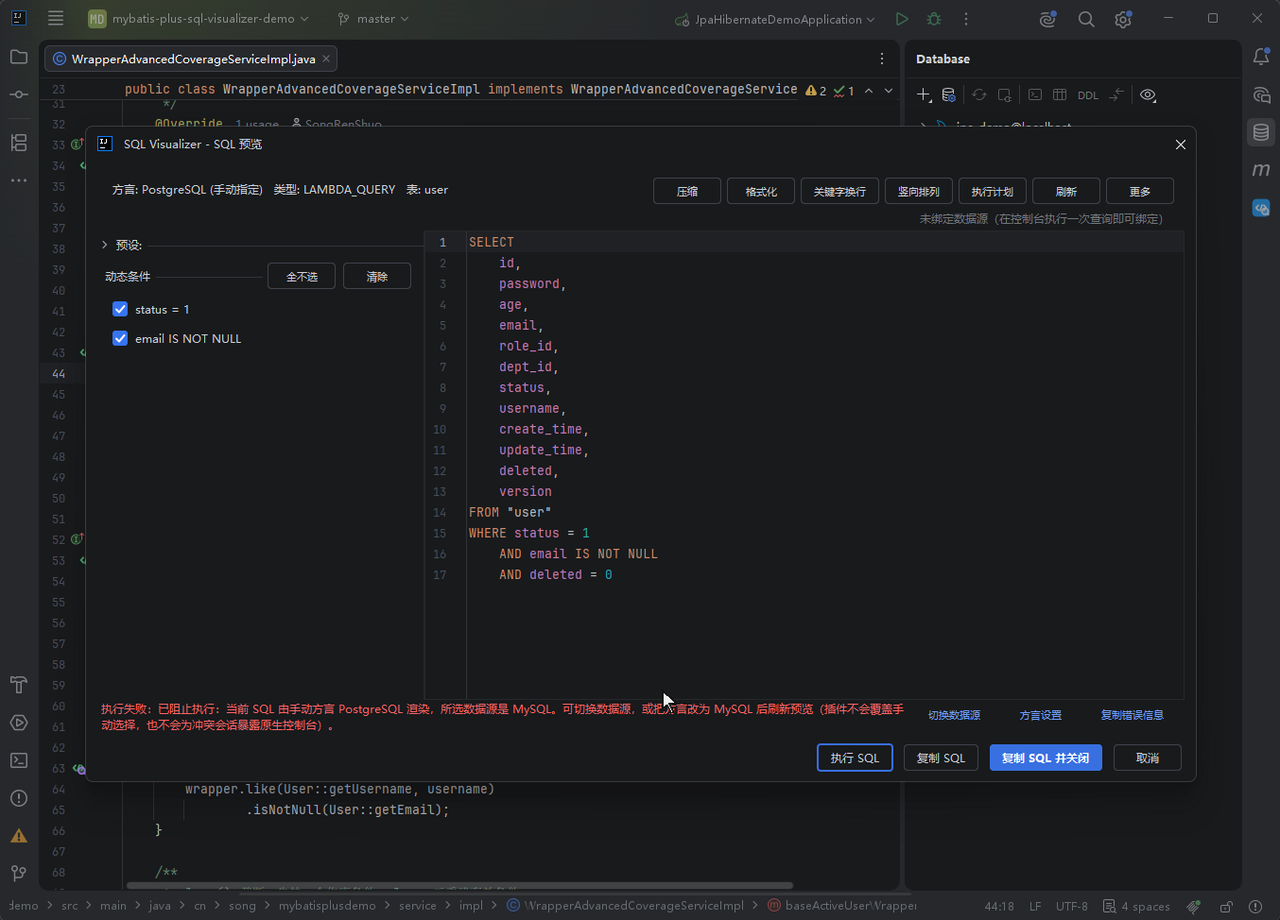
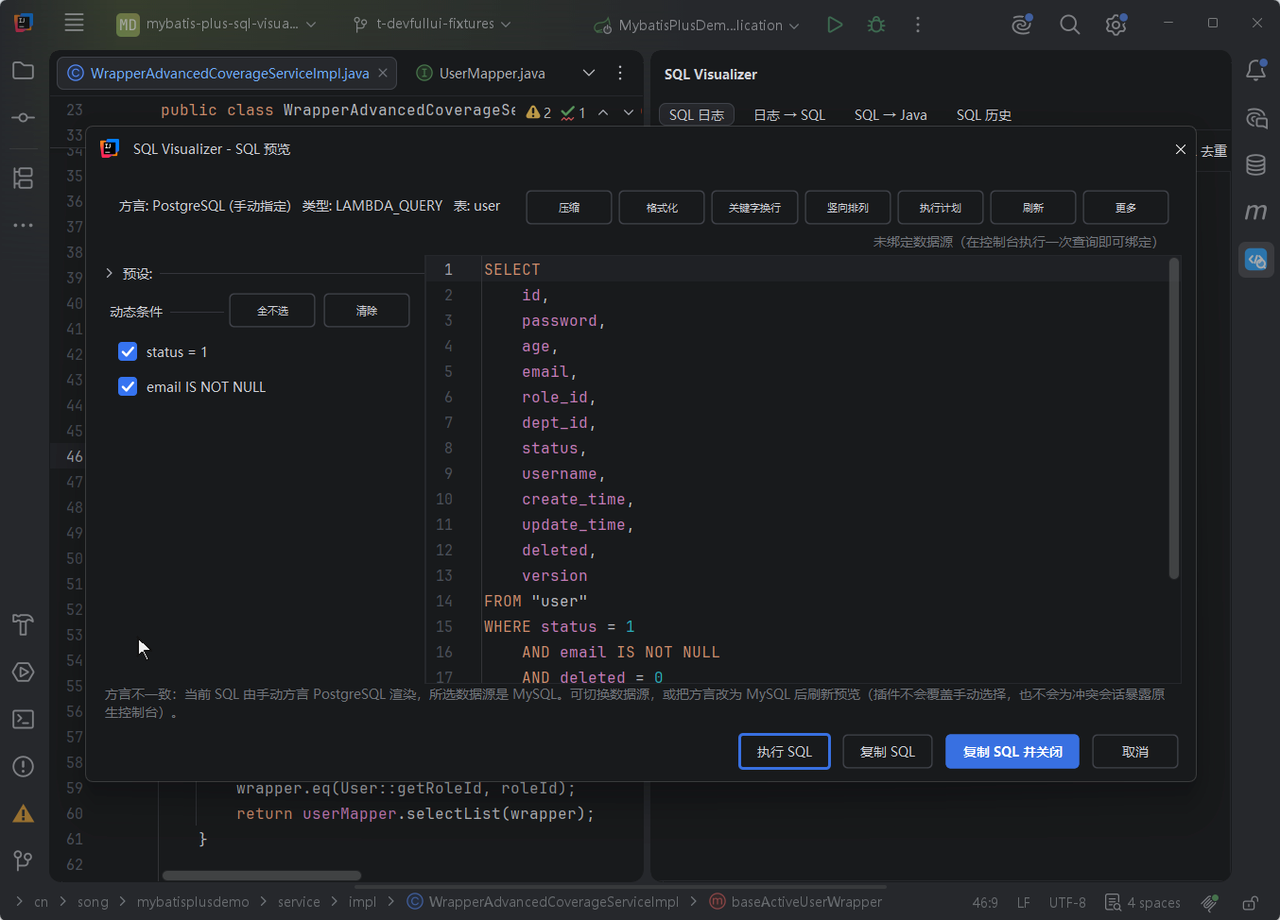
feat(demo): 第十五轮补录——dialect-gate 按放行形态重录 + 新增 mapper-nav-jump
R1 dialect-gate 重录（6.9s / 0.7MB）：预览按手动方言 PostgreSQL 渲染
（FROM "user"）→ 点「执行 SQL」弹数据源选择器（6 个 MySQL 源）→ 选
mp_demo@localhost → 灰色信息行「方言不一致：…」，执行不阻断。画面
不再是 10.28 前的「已阻止执行」阻断形态。

N1 新增 mapper-nav-jump（8.1s / 0.44MB，接缝 0.03）：UserMapper.xml
第 25 行语句 ↔ UserMapper.java 第 114 行方法双向跳转，插入 xml-preview
中英「Mapper 双向跳转」节。

文案纠错：wrapper-preview 中英「结果行同时提供 切换数据源/方言设置/
复制错误信息」与现行实现不符——放行态只有一条灰色信息行（showStatus
会清掉动作按钮），带按钮的只出现在自动重渲染失败分支；已如实改写，
dialect-gate 的 alt 同步重写。

N2 未录：`#`→`{}` 自动补、`#{` 属性补全、标签属性补全、动态标签折叠
四项在 2026.2 沙盒均未复现（ParamBraceTypedHandler 已注册、开关默认开），
按红线不摆拍，登记待回插件仓核实。N3~N5 未启动。

验证：build 退出码 0；引用 66/素材 65 零缺失零孤立；本地 preview 两页
与三份素材均 200。只提交未部署，待用户目视确认。

diff --git a/docs/变更记录.md b/docs/变更记录.md
@@ -12,7 +12,8 @@ search: false
 
 | 日期 | 变更 |
 |------|------|
-| 2026-10-30 | **第十五轮插件功能同步——v2026.10.30 发行升档（已部署并验证）**：插件 v2026.10.30 已发行（tag `2026.10.30` / gradle.properties 与 update.json 同值 / Gitee id 1254098，四证核对），站点基线停在 v2026.10.23（20261021 计划），本轮补齐 10.26~10.30 用户可见增量与两处前轮漏项。①`features/xml-preview` 中英**新两节**：「Mapper 双向跳转」（10.28：XML 语句行 ↔ 接口方法行 gutter 互跳、namespace+id 解析；10.30 同类导航插件共存让位 + 设置项「与同类 MyBatis 导航插件共存时让出 Mapper 跳转图标」默认开，bundle `settings.mapperNavYield` 亲证）与「mapper XML 编辑辅助」（10.13 T-XmlSynHi/XmlGap：语法着色、`#{}`/`${}` 分色、补全面、引用导航、动态标签折叠、注入区间级让位——此前仅 roadmap 有登记行、功能页零覆盖）；②`features/sql-log` 中英六处：DDL 两档类型着色与筛选（CREATE/ALTER/RENAME 与 DROP/TRUNCATE，虚线 vs 实心）、调用栈定时任务线程帧与线程名标注、暂停态视口锚定、关键字换行取完整 SQL、**增强捕获采集零替换**（连接原样保留只登记 URL、`-Dsqlvis.agent.wrapConnection=true` 显式 opt-in、GBASE 8s / 部分 SQLite·HSQLDB 织入名单边界如实写）、元信息行固定顺序与完整文件名；③`features/wrapper-preview` 中英：**「方言与数据源不匹配」GIF alt 从「已阻止执行」改写为放行口径**（正文 4f32f70 已是放行、alt 停在 745fd58 按 10.28 前行为的阻断重录——同文件内自相矛盾，本轮对齐）+ 判定证据透明句 + 执行控制台按绑定身份复用（T-ConsoleBind）+ 参数预设永久绑定方法；④`features/mcp` 中英：禁用工具直接调用门（`TOOL_DISABLED`）与 IDEA 2026.1.x 兼容修复（T-Mcp261FilterContract）进「使用前提」；⑤`guide/configuration` 中英五处：方言智能推断 details 按 10.29 重写（只认 SQL 数据源 / 按模块收窄 / 排除测试资源 / 激活 profile / 兜底不硬编码 MySQL）、共存让位设置段、CRUD 颜色标记行补 DDL、MCP 直接调用门、更新失败三态诊断；⑥`guide/faq` 中英方言答案同款旧兜底口径修掉（实施中全站 grep 抓出的计划外项）；⑦jpa-preview 嵌入列命名宿主级联（10.26 T-EmbeddedIdentify）、shortcuts 中英补双向跳转入口行；⑧roadmap 中英已完成 41→45 / 37→39 项、底注升档 `v2026.9.8 ~ v2026.10.30` 并补 10.26/28/29/30 四段代表功能。红线自查：全部新增表述逐条回对插件 master CHANGELOG 10.23~10.30 段与源码（`MyBatisCompetitorGate` / `MapperNavigationLineMarkerProviders` / `LogStatementClassifier` / `XmlSqlCompletionContributor` 亲证）。验证：check-en-parity 一致；build 退出码 0（faq 补修后重建）；dist grep zh 25 + en 17 组新读数全中、旧口径零残留、双锚点在产物；生产 curl 9 页 200 + pagefind 200。**遗留登记**：`dialect-gate.gif` 画面仍为 10.28 前阻断形态，文字与 alt 已对齐放行，重录进演示资产待办（需沙盒 + 键鼠独占，本轮未录）。计划：docs/开发计划/20261030-1100-第十五轮插件功能同步v2026.10.30发行升档-开发计划.md |
+| 2026-10-31 | **第十五轮同步演示动图补录（只提交未部署）**：①**R1 `dialect-gate.gif` 重录**——画面从 10.28 前的「已阻止执行」阻断形态换成放行形态：预览按手动方言 PostgreSQL 渲染（`FROM "user"`）→ 点「执行 SQL」弹数据源选择器（6 个 MySQL 源）→ 选 `mp_demo@localhost` → 灰色信息行「方言不一致：…」，执行不阻断（1280×920 / 6.9s / 0.7MB）。录制中定案的机制：平台 runner 枚举按 exec 文件方言过滤，PG 源在位时 `runners=1` 永不弹选择器，须临时移出两个远端 PG 源才得 `runners=6`；`FROM "user"` 要跑通必须落到有全字段的 `mp_demo`（`mpj_demo.user` 只有五列）且数据源 URL 带 `ANSI_QUOTES`；放行态信息行会被真实报错覆盖，故必须让执行成功。②**N1 新增 `mapper-nav-jump.gif`**——`UserMapper.xml` 第 25 行语句 ↔ `UserMapper.java` 第 114 行方法双向跳转（8.1s / 0.44MB / 接缝 0.03），插进 `features/xml-preview` 中英「Mapper 双向跳转」节。③**文案纠错**：`features/wrapper-preview` 中英「结果行同时提供：切换数据源 / 方言设置 / 复制错误信息」与现行实现不符——放行态只有一条灰色信息行（`showStatus` 会清掉动作按钮），带按钮的只出现在「自动重渲染失败」分支；已如实改写，`dialect-gate.gif` 的 alt 同步重写。④**N2 未录**：`#`→`{}` 自动补、`#{` 属性补全、标签属性补全、动态标签折叠四项在 2026.2 沙盒全部未复现（`ParamBraceTypedHandler` 已注册、开关默认开，怀疑 243+ 注入片段击键路由吞掉），按红线不摆拍，登记待回插件仓核实；N3~N5（P2/P3 可裁）未启动。验证：`npm run build` 退出码 0、引用 66/素材 65 零缺失零孤立、本地 preview 两页与三份素材均 200；动画确认待用户目视。计划：docs/开发计划/20261030-1545-第十五轮同步演示动图补录计划-开发计划.md；验收：docs/验收文档/20261031-第十五轮同步演示动图补录-验收文档.md |
+| 2026-10-30 | **第十五轮插件功能同步——v2026.10.30 发行升档（已部署并验证）**：插件 v2026.10.30 已发行（tag `2026.10.30` / gradle.properties 与 update.json 同值 / Gitee id 1254098，四证核对），站点基线停在 v2026.10.23（20261021 计划），本轮补齐 10.26~10.30 用户可见增量与两处前轮漏项。①`features/xml-preview` 中英**新两节**：「Mapper 双向跳转」（10.28：XML 语句行 ↔ 接口方法行 gutter 互跳、namespace+id 解析；10.30 同类导航插件共存让位 + 设置项「与同类 MyBatis 导航插件共存时让出 Mapper 跳转图标」默认开，bundle `settings.mapperNavYield` 亲证）与「mapper XML 编辑辅助」（10.13 T-XmlSynHi/XmlGap：语法着色、`#{}`/`${}` 分色、补全面、引用导航、动态标签折叠、注入区间级让位——此前仅 roadmap 有登记行、功能页零覆盖）；②`features/sql-log` 中英六处：DDL 两档类型着色与筛选（CREATE/ALTER/RENAME 与 DROP/TRUNCATE，虚线 vs 实心）、调用栈定时任务线程帧与线程名标注、暂停态视口锚定、关键字换行取完整 SQL、**增强捕获采集零替换**（连接原样保留只登记 URL、`-Dsqlvis.agent.wrapConnection=true` 显式 opt-in、GBASE 8s / 部分 SQLite·HSQLDB 织入名单边界如实写）、元信息行固定顺序与完整文件名；③`features/wrapper-preview` 中英：**「方言与数据源不匹配」GIF alt 从「已阻止执行」改写为放行口径**（正文 4f32f70 已是放行、alt 停在 745fd58 按 10.28 前行为的阻断重录——同文件内自相矛盾，本轮对齐）+ 判定证据透明句 + 执行控制台按绑定身份复用（T-ConsoleBind）+ 参数预设永久绑定方法；④`features/mcp` 中英：禁用工具直接调用门（`TOOL_DISABLED`）与 IDEA 2026.1.x 兼容修复（T-Mcp261FilterContract）进「使用前提」；⑤`guide/configuration` 中英五处：方言智能推断 details 按 10.29 重写（只认 SQL 数据源 / 按模块收窄 / 排除测试资源 / 激活 profile / 兜底不硬编码 MySQL）、共存让位设置段、CRUD 颜色标记行补 DDL、MCP 直接调用门、更新失败三态诊断；⑥`guide/faq` 中英方言答案同款旧兜底口径修掉（实施中全站 grep 抓出的计划外项）；⑦jpa-preview 嵌入列命名宿主级联（10.26 T-EmbeddedIdentify）、shortcuts 中英补双向跳转入口行；⑧roadmap 中英已完成 41→45 / 37→39 项、底注升档 `v2026.9.8 ~ v2026.10.30` 并补 10.26/28/29/30 四段代表功能。红线自查：全部新增表述逐条回对插件 master CHANGELOG 10.23~10.30 段与源码（`MyBatisCompetitorGate` / `MapperNavigationLineMarkerProviders` / `LogStatementClassifier` / `XmlSqlCompletionContributor` 亲证）。验证：check-en-parity 一致；build 退出码 0（faq 补修后重建）；dist grep zh 25 + en 17 组新读数全中、旧口径零残留、双锚点在产物；生产 curl 9 页 200 + pagefind 200。**遗留登记**：`dialect-gate.gif` 画面仍为 10.28 前阻断形态，文字与 alt 已对齐放行，重录进演示资产待办（需沙盒 + 键鼠独占，本轮未录；**已于 2026-10-31 重录完成，见上方 10-31 行**）。计划：docs/开发计划/20261030-1100-第十五轮插件功能同步v2026.10.30发行升档-开发计划.md |
 | 2026-10-26 | **全站 64 张演示动图复核 + 文本查漏（未部署）**：用户要求对新一批录制成果做全量复核（动图画面 + 页面文本）。①**方法**——机械指标全量实测（Pillow 逐张读尺寸/帧数/时长/体积 + poster mtime 对账）+ **逐张目视**（6 组并行子代理抽首/15%/40%/65%/尾五帧，主控对关键断言逐条自核）+ 文本对照插件 `CHANGELOG [2026.10.23]` 逐项 grep；判定口径 PASS/MINOR/SERIOUS，含「反向自证」一问。②**读数**——64 张里 **PASS 32 / MINOR 22 / SERIOUS 10**；尺寸异常 2 处（`display-mask` 1088×782 为等比缩小、`sql-snippets` 1280×962 为装菜单抬高窗口），poster 陈旧 4 张（`capture-diagnostics`/`datasource-badge`/`sql-history`/`sql-list-display`，其中 `sql-list-display.png` 停在演示里根本没出现的「格式化」档）→ **已从当前成片重出这 4 张 poster**。③**SERIOUS 10 张**——`wrapper-preview`（拍成 XML mapper 预览，非 Wrapper→SQL；被首页卡/快速开始/DocsShowcase 共 6 处引用）、`wrapper-params`（方向与 alt 相反：全片唯一一次翻转是**勾上** username、WHERE 多一个条件；且参数输入 `'tom'` 渲染成 `'''tom'''`）、`diagnostic-report`（五段式报告本体全程不可见）、`dialect-gate`（场景无方言冲突：PG 渲染→PG 源，证不了「只提示不拦」）、`history-compare`（两条 SQL 结构毫不相关），以及**跳行弹窗 6 张**（`annotation-preview`/`batch-operation`/`xml-preview`/`jpa-embedded`/`jpa-write-path`/`jpa-derived-query`）。④**跳行弹窗根因定案**——跳行由 `lib/nav.py` 的 `goto*` 与 `gifkit.goto_line` 实现（Ctrl+G→清空→输入→Enter），从 Ctrl+G 到 Enter 约 1.5~2.0s、弹窗全程可见（15fps 下 20~30 帧）；上一轮「`goto_col` 末尾按 Esc」的修法**无效**（Esc 在 Enter 之后，弹窗早已入镜）。⑤**与上一轮验收结论冲突（重要）**——`docs/验收文档/20261025-…验收文档.md` 对 `batch-operation`/`jpa-write-path`/`jpa-embedded` 三张写「全程无跳行弹窗」，但**当前提交的文件里弹窗仍在**（逐帧读数：`21:1` / `56:35`→`102` / `23:20`→`26`）；另有两处列数口径不符（写 7 列实测 8 列、写从 `age` 起实测从 `password` 起）→ 判定「上一轮验收描述的画面与当前提交的文件不是同一次 take」。**教训：验收必须对着仓库里已提交的那份文件逐帧看。**⑥**文本修复 14 处（中英同步）**——补 5 项未覆盖能力（执行前自检＝方言能力缺口+未识别列 did-you-mean、方言能力矩阵 meta 悬停、数据源「本模块上次使用」指示行、分享窗口「审阅诊断报告并反馈」、AI 上下文 v2 的版本化诊断投影/已取得计划摘要/表列计数/缺失项标注）；订正 9 处与画面或实现不符（`wrapper-params`/`perf-advice`/`explain-plan` 三处 alt、`explain-history-compare` 正文时序、`history-compare` 标题口径、`capture-diagnostics` alt 引号文案、`jpa-write-path`/`jpa-derived-query`/`xml-ognl` 三处 alt、`sql-suppress`+`history-export` alt 里的制作说明、`guide/shortcuts.md` 交流群「最右」、`about/roadmap.md` 版本区间 `v2026.10.23-beta.1`→`v2026.10.23`）。**已核实不补**：`ExplainIndexAdvisor.ruleInventory()`（R45 体检规则清单）在 `src/main` 零消费点，按「非用户可见能力不写文档」口径不补。⑦**验证**——`node scripts/check-en-parity.mjs` 中英清单一致；`npm run build` 退出码 0。⑧**交付**——复核记录 `docs/验收文档/20261026-演示动图全量复核-验收文档.md`（含 64 张逐张判定表）；重录计划 `docs/开发计划/20261026-0330-演示动图复核问题重录-开发计划.md`（10 张重录清单 + 根因 + 三道新增闸门 + 6 条待验证前提 + 批次编排）。**只提交，不部署。** |
 | 2026-10-21 | **v2026.10.23-beta.1 基线全站盘点 + 增强捕获授权口径就地修正（未部署）**：①**盘点**——52 张 GIF / 63 张 PNG / 73 处引用全量对账（零缺失、零孤立）；像素采样识别出 **9 张 poster 带 `Start Free Trial`**（`sql-to-java`/`mcp-agent`/`code-completion`/`annotation-preview`/`batch-operation`/`jpa-preview`/`xml-preview`/`xml-preview-rollback`/`crud-sql`，含首页在用的 `sql-to-java.png`）；git 日期 + poster 目视确认 13 张为 2026-09-12~09-15 旧 UI 构图（预览面板按钮行无「复制 SQL 并关闭」、日志工具栏为 `AllIcons` 旧图标、`SQL → Java (Beta)` 页签）；27 个新功能关键词普查出 **14 项零命中**；17 个候选提交经 `git merge-base --is-ancestor` 全部确认在 tag `2026.10.23-beta.1` 内。②**正文修正（6 组文件）**——增强捕获授权机制是最大失真项：站点中英仍在写「24 小时冷却 / 重新授权按钮 / 三态确认弹窗 / 未授权状态行」，而 `T-EnhancedCaptureDefaultOn`（`5b4fb4e0`）早已改为默认开启、勾选即授权、无确认框。已改 `features/sql-log.md`（导语 + 启动注入 details + 诊断表三行换为「双通道状态栏 / 设置页状态行」）、`en/features/sql-log.md`（同三处）、`guide/configuration.md` 与 `en/`（设置表增强捕获行）、`guide/faq.md` 与 `en/`（捕获不到 SQL 的增强捕获两条）、`en/guide/compatibility.md` 与 `en/guide/offline.md`（三处 consent dialog 表述）、`.vitepress/theme/data/homeContent.js`（首页第二卡要点，中英）。`about/roadmap.md` 里「增强捕获确认前置」属 v2026.10.6 历史陈述，如实保留未动。③**计划**——新建 `docs/开发计划/20261021-2043-文档站演示动图重录与内容同步-开发计划.md`：12 张 P0 重录、12 张 P1 新增、4 张截图重拍、15 项正文新增，含 9 条待验证前提（P1 沙盒订阅有效性是旧片带横幅的根因）与 5 条风险；`docs/MEMORY.md` 索引同步登记并把「全量 38 篇」订正为实测 62 篇。④**验证**——`node scripts/check-en-parity.mjs` 中英清单一致；`npm run build` 退出码 0（pagefind 46 页 / 2 语言）；产物核验：`dist/features/sql-log.html` 命中「默认开启，打开即授权」、`dist/en/features/sql-log.html` 命中「on by default and enabling it」、`dist/index.html` 中英首页要点均命中新文案；源文件中旧口径（`24 小时冷却`/`重新授权`/`未授权注入`/`注入确认三态`/`Agree and enable`/`not authorized`）零残留。构建期 `sync-plugin-version.mjs` 已把 `plugin-version.json` 从 `2026.10.13` 同步到 `2026.10.23-beta.1`（自动，非手改）。**只提交，不部署**，待用户逐图验收。 |
 | 2026-10-10 | **T4 闭环：在 262 沙盒里用 `sqlv_render_sql` 实际渲染首页示例链（dev 分支，未部署）**：①**环境**——插件仓 master（`ff99fb4`，2026.10.13）起 `runIde -PgifRecord=true`（平台 2026.2.1，日志确认 build `262.9437.185`），`--args` 直开 demo 工程；沙盒 MCP 服务经预置 `config/options/mcpServer.xml`（**组件名必须 `McpServerSettings`**、`enableMcpServer=true`、`mcpServerPort=64342`）+ `trusted-paths.xml` + `proxy.settings.xml`（127.0.0.1:7890）+ 复制真实 IDE 离线授权 `idea.key` 后在 **64342** 起服务（不复制授权时许可子系统无限等待、永不创建主窗口）。②**调用**——用 `~/.zcode/cli/mcp_ide.py`（SSE 客户端，支持 `tools`/`call <tool> <json>`）`tools/call` 调 `sqlv_render_sql`，**参数必须带 `projectPath`**（否则报 `Unable to determine the target project`），跑前须设 `NO_PROXY=localhost,127.0.0.1`。③**夹具**——文档/首页示例 Java 只引用 `DeviceInfoEntity` 不展示实体，故按示例隐含实体建临时夹具（类名 `DeviceInfoEntity`、字段 id/stationId/shareSchemeId、不写 `@TableName` 以同时验证 MP 默认命名推导），置于 demo 工程 `cn.song.mpjdemo.t4verify.HeroSnippet.java:9`，链与首页/文档逐字一致，核对完已删、demo 仓恢复原状。④**渲染读数**——`FROM device_info_entity` ✓、`WHERE id = 1001 AND station_id IS NOT NULL` ✓（与首页/文档逐字一致，参数替换与 `isNotNull` 列名均正确）、`sourceType: lambda query` ✓；**SELECT 列列表为空**——全新沙盒不自动导入 demo 的 Maven 工程（`get_project_dependencies` 返回 `{"dependencies":[]}`），MP 库不在模块类路径，插件解析不出实体列，属工程环境问题而非插件缺陷；列列表规则已被插件自有测试锁定（`SqlPreviewServiceTest.testPreviewChainStyle` 对两字段实体断言 `SELECT id, share_scheme_id …`，即列列表=实体声明的列），首页三列示例与该规则一致。⑤**附带发现（建议另修）**——插件 master `README.md` 同一示例的 SQL 写成 `AND share_scheme_id IS NOT NULL`，而其 Java 是 `.isNotNull(DeviceInfoEntity::getStationId)`，列名应为 `station_id`；**文档站与首页的写法是对的**（本次渲染亦证实），是 README 错了。⑥沙盒 `config/` 预置的四份文件留在 throwaway 沙盒内（仓库无改动），后续录制/复验可复用；调用配方沉淀至记忆 `sandbox-mcp-tool-invocation`。**只提交，不部署。** |

diff --git a/docs/验收文档/20261031-第十五轮同步演示动图补录-验收文档.md b/docs/验收文档/20261031-第十五轮同步演示动图补录-验收文档.md
@@ -1,0 +1,89 @@
+# 第十五轮同步演示动图补录 验收文档
+
+> 2026-10-31。承接 `docs/开发计划/20261030-1545-第十五轮同步演示动图补录计划-开发计划.md`。
+> 沙盒：插件仓 master + `-PgifRecord=true -PgifRobotServer=true -Pmpvs.licenseAgent=…`（2026.2.1 / Islands Dark / ideScale 1.2）。
+> 本轮**只提交不部署**，等用户目视确认后再发。
+
+## 一、交付判定
+
+| 编号 | 素材 | 判定 | 规格 |
+|---|---|---|---|
+| R1 | `dialect-gate.gif` + `.png` | **PASS**（重录完成） | 1280×920 / 6.9s / 0.7MB |
+| N1 | `mapper-nav-jump.gif` + `.png` | **PASS**（新增完成） | 1280×920 / 8.1s / 0.44MB |
+| N2 | `xml-editing-support` | **未交付**（能力未复现，见 §四） | — |
+| N3/N4/N5 | DDL 类型色 / 预设绑定 / 调度线程 | **未启动**（P2/P3 可裁，用户未点名） | — |
+
+接缝：R1 首尾 6.06（结构性差异——首帧是纯预览、末帧带方言提示行，按技能口径属允许的结构性跳变）；N1 首尾 0.03（同态）。
+
+## 二、逐图核对（抽帧）
+
+R1 `dialect-gate`（4 拍）：
+
+1. 预览态：`方言: PostgreSQL（手动指定）`，SQL 呈 `FROM "user"` 双引号形态（截图 `r15_r1_f40`）
+2. 点「执行 SQL」→ 数据源选择器弹出，列出 6 个 MySQL 源（`r15_r1_f140`）
+3. 选 `mp_demo@localhost` → 结果区灰色信息行「方言不一致：当前 SQL 由手动方言 PostgreSQL 渲染，所选数据源是 MySQL。可切换数据源，或把方言改为 MySQL 后刷新预览（插件不会覆盖手动选择，也不会为冲突会话暴露原生控制台）。」
+4. 末帧定格在该信息行（poster 同帧），**无「已阻止执行」字样**，与站点现行文案一致
+
+N1 `mapper-nav-jump`（3 拍）：
+
+1. `UserMapper.xml` 第 25 行 `<select id="selectUserListByXml">`，行 gutter 两枚图标（左＝SQL 预览、右＝跳转）
+2. 点右侧跳转图标 → 落到 `UserMapper.java` 第 114 行 `selectUserListByXml` 方法行（状态栏 114:16）
+3. 点该行跳转图标 → 跳回 XML 语句行；末帧鼠标停右侧 SQL Visualizer 面板空白区（避免粘性文档浮层）
+
+## 三、机制取证（本轮最花时间的部分，留给下次直接抄）
+
+1. **平台的 runner 枚举按 exec 文件方言过滤，无匹配源时回退「全部源」**：`.idea/sql-visualizer/exec/mpsql-exec.sql` 被按渲染方言（PostgreSQL）预映射后，日志 `[M36] runners=1` 只给 PG 源（远端 `MySQL`/`dbx_test`），于是「单 runner 直接执行」、永不弹选择器。把两个远端 PG 源临时移出 `.idea/dataSources.xml` 后变成 `[M36] runners=6`（全部 MySQL 源）+ `show popup with 6 runners`，选择器才出现。录制结束后两份 XML 已按原样还原。
+2. **能装下 `FROM "user"` 且带全字段的库是 `mp_demo` 而不是 `mpj_demo`**：`mpj_demo.user` 只有 `id/name/age/sex/head_img` 五列（3 行），`mp_demo.user` 才是 `id/username/password/age/email/role_id/dept_id/status/remark/create_time/update_time/deleted/version`（10 行）。`mpj_demo` 那套是早期 execute-sql 演示用的另一张表。
+3. **数据源 URL 必须带 `sessionVariables=sql_mode=ANSI_QUOTES`**：否则 `FROM "user"` 在 MySQL 里是字符串字面量、直接语法错。本轮新建的 `mp_demo@localhost` 源按此拼 URL（`create_database_connection` 的校验会拒带 `sessionVariables` 的 URL，故先用纯 URL 建源、再改 `dataSources.xml` 补参数）。
+4. **放行态的提示行会被真实报错覆盖**：`onExecutionDialectGate` 对 `MANUAL_CONFLICT` 走 `resultPanel.showStatus()`（下一拍 EDT），真实错误随后覆盖同一 infoLabel。所以「提示行」要能停在画面里，执行必须**不报错**——这也是必须选 `mp_demo`（有全字段）而不是 `mpj_demo` 的原因。
+5. **执行视图（Result 网格）在本沙盒会话没挂上**：日志止于 `[M36] runRunner invoked OK`，没有 `result/layout OK` / `results refreshed`，面板停在预览态（`未绑定数据源（在控制台执行一次查询即可绑定）`）。会话确实建在 `mp_demo/MySQL`（`session created … target=5bbcde8e/MySQL, execute=true`），SQL 已提交。这张片因此以「信息行」收尾而不是结果网格；结果网格形态由 `execute-sql.gif` 覆盖，不冲突。
+
+## 四、N2 未交付的原因（需要插件仓核实）
+
+在 2026.2 沙盒里逐项实测，`mapper XML 编辑辅助` 三条能力**都没有复现**：
+
+| 声称能力 | 实测 | 取证 |
+|---|---|---|
+| 输入 `#` / `$` 自动补 `{}` | 只插入裸 `#`，无 `{}` | `ParamBraceTypedHandler` 已注册（`plugin.xml` `typedHandler`），`XmlSynHiGate.shouldYield(project)` = `!xmlSynHiEnabled()`，默认 true，理论上应生效 |
+| `#{` 后补 `jdbcType` 等属性 | 无补全弹窗 | 光标在 `<if>` 体内 SQL 文本行尾，输入 `#{j` 无反应 |
+| 标签属性值补全（`refid` 等） | 在标签行 `Ctrl+Space` 出的是 SQL 关键字 + 列名（`age 年龄`…），不是 `sql id` 清单 | `r15_n2_attr` |
+| 动态标签折叠 | 鼠标点折叠位/`Ctrl+Minus` 均无效 | `r15_n2_fold2`；早期一次「看似折叠」经复测不能重现 |
+
+结论：**不录**（红线：不把「文字已覆盖」写成「已录像」，也不摆拍）。建议回插件仓用单测 + 2026.2 真机定位 `ParamBraceTypedHandler` 是否被平台注入路由吞掉（243+ 的 `TypedHandler.callDelegates` 注入片段路由是已知易碎点）。
+
+## 五、文档同步
+
+1. `features/wrapper-preview.md` / `en/…`：「方言与数据源不匹配」节的「结果行同时提供：切换数据源 / 方言设置 / 复制错误信息」三条**与现行实现不符**——放行态只有一条灰色信息行（`showStatus` 会 `clearErrorActions()`），带按钮的只出现在「自动重渲染失败」分支。已改为如实描述，`dialect-gate.gif` 的 alt 同步重写（删掉「三个出口」）。
+2. `features/xml-preview.md` / `en/…`：「Mapper 双向跳转」节新增 `mapper-nav-jump.gif` 插槽 + alt。
+3. 素材：`public/demo/dialect-gate.gif|png` 替换，`public/demo/mapper-nav-jump.gif|png` 新增。
+
+## 六、验证读数
+
+| 项 | 读数 |
+|---|---|
+| `npm run build` | 退出码 0（`vitepress build --ignoreDeadLinks` + pagefind 均通过，48 页 / 6292 词） |
+| 引用扫描 | 66 处引用 / 65 个素材，**零缺失、零孤立**（唯一「缺失」是文档正文里的占位串 `xxx.gif`） |
+| 产物核验 | `dist/features/xml-preview.html`、`dist/en/features/xml-preview.html` 各含 1 处 `mapper-nav-jump.gif`；两份 wrapper-preview 各含 1 处 `mp_demo@localhost` |
+| 本地 preview（4173） | 两个页面 200（55.8KB / 65.9KB）；`mapper-nav-jump.gif` 200 464479B、`dialect-gate.gif` 200 770536B、poster 200 390181B |
+
+**动画是否在播**按口径只能由用户真实可见渲染确认：本地预览 <http://127.0.0.1:4173/features/xml-preview> 与 `/features/wrapper-preview`（preview 服务已起在本机）。
+
+## 七、环境还原
+
+- 沙盒 IDE 已退出；沙盒插件设置回档 `sql-visualizer-recording/sandbox-config/options/mp-sql-visualizer.xml`
+- demo `.idea` 五份状态文件已还原到会话初值：两个远端 PG 源回位、`sqldialects.xml` PROJECT=PostgreSQL、`data_source_mapping.xml` 指回 PG 源、`workspace.xml` last-runner 回 `MySQL`
+- 本轮临时新建的 `mp_demo@localhost` 数据源**已删除**（下次重录 R1 需按 §三.3 重建）
+- demo 被污染的 `WrapperAdvancedCoverageServiceImpl.java`（误插空行）已 `git checkout` 复原；`application.yml` 的既有本地改动未动
+- 并行任务登记已无活跃项
+
+## 七之二、部署前必须先定的一件事（版本口径）
+
+`npm run build` 的第一步 `scripts/sync-plugin-version.mjs` 会读同级插件仓的 `gradle.properties` 并回写 `.vitepress/data/plugin-version.json`。当前插件仓是 **`2026.10.31-beta.2`（预发行）**，本工作树构建时它被自动改写成 beta.2；为避免站点在用户决定前就宣称一个 beta 版本，**已把该文件还原为 `2026.10.30`**，未纳入本次提交。
+
+→ 部署前请先定：站点版本号是否跟着插件仓走（跟则 beta.2，不跟则需在部署前手工回档该文件，否则 `npm run deploy` 的构建会再次把它顶上去）。
+
+## 八、待用户定夺
+
+1. 两张片子是否认可（本地 preview 目视）；认可后我再执行 `npm run deploy`。
+2. N2 是否按 §四 回插件仓立项排查（能力与文档不符，属文档失真风险）。
+3. N3/N4/N5 是否点名要做（P2/P3，需先改 demo 工程或造 DDL 日志）。

diff --git a/docs/开发计划/20261030-1545-第十五轮同步演示动图补录计划-开发计划.md b/docs/开发计划/20261030-1545-第十五轮同步演示动图补录计划-开发计划.md
@@ -85,4 +85,23 @@
 
 ## 实施记录
 
-（录制启动后回填）
+2026-10-31 执行（沙盒：插件 master + 2026.2.1 + Islands Dark）。逐项对照 §四 待验证前提：
+
+1. **沙盒订阅有效** —— 双证通过：标题栏无 `Start Free Trial`；`//div[@accessiblename='Database']` 命中 1 个 `SquareStripeButton`。`preflight.py` 七项全 PASS。
+2. **双向跳转锚点现成** —— `UserMapper.xml` 第 25 行 `<select id="selectUserListByXml">` ↔ `UserMapper.java` 第 114 行同名方法（namespace + id 匹配），两枚图标 tooltip 与 bundle 文案一致，往返各一次实证。**批 0 未改动 demo 工程**。
+3. **R1 场景可行性** —— 前提 3 只说对了一半：场景本身可行，但「点执行 SQL 直接跑」不成立，见下条。
+4. **N2 补全依赖索引就绪** —— 索引确已空闲（P2 PASS），但三条能力仍全部未复现，故 N2 未录。
+5. **录制环境边界** —— `runIde -PgifRecord=true` 启动；Maven 导入正常（Java 侧图标与预览链都产出）。
+
+**R1 的机制发现（本轮最大成本，已写进验收文档 §三）**：平台的 runner 枚举按 exec 文件方言过滤——exec 被预映射成 PostgreSQL 后 `runners=1` 只给 PG 源，于是「单 runner 直接执行」、数据源选择器永不出现；把两个远端 PG 源临时移出 `.idea` 后 `runners=6`，选择器才弹。同时 `FROM "user"` 要跑通必须落到 `mp_demo`（`mpj_demo.user` 只有五列）且数据源 URL 带 `ANSI_QUOTES`；放行态的提示行又会被真实报错覆盖，所以「执行成功」是提示行能停在画面里的前提。执行视图（Result 网格）在本沙盒会话没挂上（日志止于 `runRunner invoked OK`），片子以信息行收尾。
+
+**交付**：R1 `dialect-gate.gif` 重录出片（6.9s / 0.7MB / 首尾结构性跳变 6.06）；N1 `mapper-nav-jump.gif` 新增（8.1s / 0.44MB / 接缝 0.03）；N2 未录（`#`→`{}`、`#{` 属性补全、标签属性补全、动态标签折叠四项均未复现，建议回插件仓核实 `ParamBraceTypedHandler`）；N3~N5 未启动。
+
+**文档同步**：`wrapper-preview` 中英「结果行同时提供三条出口」与现行实现不符（放行态只有一条灰色信息行，按钮只出现在自动重渲染失败分支），已如实改写并重写 `dialect-gate.gif` 的 alt；`xml-preview` 中英新增 `mapper-nav-jump.gif` 插槽。
+
+**验证**：`npm run build` 退出码 0；引用 66 / 素材 65 零缺失零孤立；本地 preview 两页与三份素材均 200。**只提交未部署**，待用户目视确认。
+
+**环境还原**：demo `.idea` 五份状态文件回档到会话初值、临时 `mp_demo@localhost` 源删除、沙盒插件设置回档、被误插空行的 Java 文件已复原。
+
+详细逐图判定与待办见 `docs/验收文档/20261031-第十五轮同步演示动图补录-验收文档.md`。
+

diff --git a/en/features/wrapper-preview.md b/en/features/wrapper-preview.md
@@ -180,13 +180,9 @@ The judgement is transparent too: the SQL's dialect source, confidence and candi
 
 The one case still blocked is a write or EXPLAIN where **either side's dialect is unknown** (rendered source undetermined, or the target data source's dialect cannot be resolved). That is not "a conflict was detected" but "no judgement is possible", and blindly firing PostgreSQL syntax at a MySQL database is not a risk worth taking — so it stays fail-closed.
 
-The result row also offers:
+When it lets execution through, the result row is a single grey info line — no buttons, no block. Only in the rarer "automatic re-render failed" case does it escalate to an error row with **Switch Data Source** and **Dialect Settings**; a genuine execution error shows the database's own error row with **Locate failing statement** and **Copy error message**.
 
-- **Switch Data Source**: pick a data source that matches; once bound, the preview re-renders for the new dialect and retries
-- **Dialect Settings**: jump straight to the plugin's dialect configuration page
-- **Copy error message**: copy the whole explanation for pasting into an issue or a chat
-
-<GifPlayer src="/demo/dialect-gate.gif" alt="Dialect mismatch warns but does not block: the preview renders as PostgreSQL (dialect: PostgreSQL, manual — note the double-quoted FROM &quot;user&quot;); clicking Execute SQL with a MySQL data source selected shows an info row reading Dialect mismatch: the SQL was rendered with the manual dialect PostgreSQL while the selected data source is MySQL — execution continues and the SQL is submitted as-is, with three exits — Switch data source / Dialect settings / Copy error message" />
+<GifPlayer src="/demo/dialect-gate.gif" alt="Dialect mismatch warns but does not block: the preview renders as PostgreSQL (dialect: PostgreSQL, manual — note the double-quoted FROM &quot;user&quot;); clicking Execute SQL opens a data-source picker listing the available MySQL sources, and after picking mp_demo@localhost an info row appears reading Dialect mismatch: this SQL was rendered for the manual dialect PostgreSQL while the selected data source is MySQL — execution is not blocked and the SQL is submitted to the data source you picked" />
 
 ### Real EXPLAIN Plan
 

diff --git a/features/wrapper-preview.md b/features/wrapper-preview.md
@@ -181,13 +181,9 @@ IntelliJ IDEA Ultimate + Database 插件环境下，预览后自动创建临时 
 
 唯一仍然拦的情况是**有一边方言未知**（渲染来源不明或目标数据源方言取不到）的写操作与 EXPLAIN：那不是「判断出冲突」，而是「无从判断」，把 PG 语法盲投到 MySQL 库上的风险不可控，此时保持 fail-closed。
 
-结果行同时提供：
+放行时结果行只给一条灰色信息提示，不带按钮、不阻断执行。只有「自动重渲染失败」这类少数情况，提示才升级为错误行并附「切换数据源」「方言设置」两个就地入口；真实执行报错时则是数据库自己的错误行，带「定位到出错语句」「复制错误信息」。
 
-- **切换数据源**：换一条方言匹配的源，绑定后按新方言自动重渲染并重试
-- **方言设置**：直达插件的方言配置页
-- **复制错误信息**：把整段说明复制走，便于贴进 issue 或对话里核对
-
-<GifPlayer src="/demo/dialect-gate.gif" alt="方言不一致时只提示不拦执行：预览按 PostgreSQL 渲染（方言：PostgreSQL 手动指定，SQL 呈 FROM &quot;user&quot; 双引号形态），点「执行 SQL」选定 MySQL 数据源后，结果区给出「方言不一致：当前 SQL 由手动方言 PostgreSQL 渲染，所选数据源是 MySQL」的信息提示，执行继续、SQL 照常提交，附「切换数据源」「方言设置」「复制错误信息」三个出口" />
+<GifPlayer src="/demo/dialect-gate.gif" alt="方言不一致时只提示不拦执行：预览按 PostgreSQL 渲染（方言：PostgreSQL 手动指定，SQL 呈 FROM &quot;user&quot; 双引号形态），点「执行 SQL」弹出数据源选择器（列出可用的 MySQL 源），选 mp_demo@localhost 后结果区出现「方言不一致：当前 SQL 由手动方言 PostgreSQL 渲染，所选数据源是 MySQL」的信息提示——不再阻断，SQL 照常提交到所选数据源" />
 
 ### EXPLAIN 真实执行计划
 

diff --git a/en/features/xml-preview.md b/en/features/xml-preview.md
@@ -22,6 +22,8 @@ Mapper XML `select` / `insert` / `update` / `delete` tag lines and Mapper interf
 
 Targets are resolved by `namespace` + tag `id`; when resolution fails no icon is shown — the plugin never guesses a same-named method as a fallback. The icons obey the gutter master switch and the "mapper XML statements" group switch in settings.
 
+<GifPlayer src="/demo/mapper-nav-jump.gif" alt="Mapper two-way navigation: in UserMapper.xml, clicking the navigation icon on the selectUserListByXml statement line jumps to the matching selectUserListByXml method in the UserMapper interface; clicking the icon on that interface method line jumps back to the XML statement" />
+
 ::: details Coexisting with peer navigation plugins (When to read: you have MyBatisCodeHelperPro or similar installed)
 When a peer MyBatis navigation plugin (currently: MyBatisCodeHelperPro) is enabled, it draws its own jump arrow on the same line — two icons stacked on one line help nobody, so this plugin **yields** its two navigation icons by default. The behavior is controlled by the setting "Yield Mapper navigation icons when a peer MyBatis navigation plugin is present" (on by default, in the same block as the gutter group switches): turn it off to keep this plugin's icons even when the peer is present. Other gutters (SQL preview, annotation SQL, JPA / HQL, JDBC, Wrapper chains, etc.) are unaffected by the yielding.
 :::

diff --git a/features/xml-preview.md b/features/xml-preview.md
@@ -22,6 +22,8 @@ mapper XML 的 `select` / `insert` / `update` / `delete` 标签行与 Mapper 接
 
 跳转目标按 `namespace` + 标签 `id` 解析，解析不到就不显示图标，也不会猜一个同名方法凑数。图标受设置页 gutter 总开关与「mapper XML 语句」分组开关控制。
 
+<GifPlayer src="/demo/mapper-nav-jump.gif" alt="Mapper 双向跳转：UserMapper.xml 里点 selectUserListByXml 语句行的跳转图标，编辑器落到 UserMapper 接口中同名的 selectUserListByXml 方法行；再点该接口方法行的跳转图标，跳回 XML 语句" />
+
 ::: details 与同类导航插件共存（何时看：装了 MyBatisCodeHelperPro 等同类插件时）
 同类 MyBatis 导航插件（当前登记 MyBatisCodeHelperPro）启用时，对方会在同一行画自己的跳转箭头，两枚图标叠在一行没有意义——插件默认**让出**这两个跳转图标。行为由设置项「与同类 MyBatis 导航插件共存时让出 Mapper 跳转图标」控制（默认开，在 gutter 分组开关同一区块）：关闭后即使对方在位也保留本插件图标。其余 gutter（SQL 预览、注解 SQL、JPA / HQL、JDBC、Wrapper 链等）不受让位影响。
 :::
